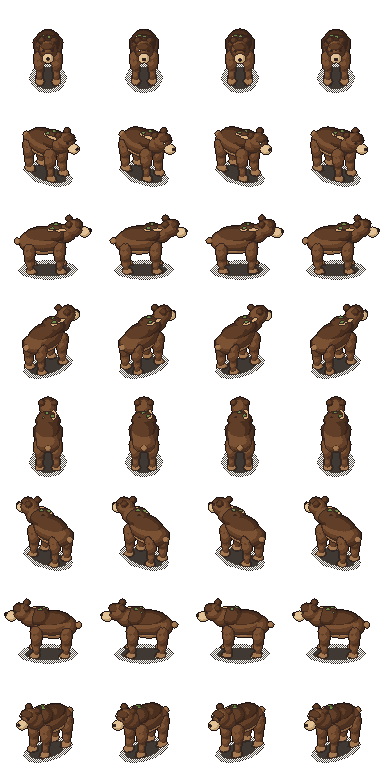
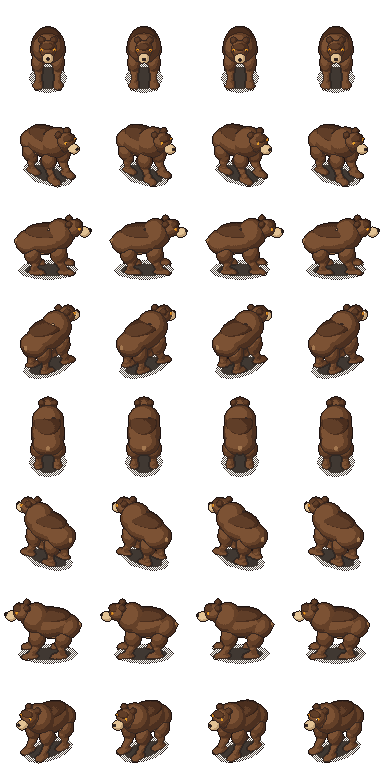
fix: caveBear organico com caminhada em seis poses

diff --git a/art-source/monsters/caveBear/build.py b/art-source/monsters/caveBear/build.py
@@ -47,6 +47,7 @@ MATS = {
     "pelo_escuro": dict(r=[(96, 62, 40), (74, 46, 30), (56, 36, 26)], layer="corpo", w=1.0, dith=0.02, bias=0.0, ao=0.5),
     "pelo": dict(r=[(124, 82, 52), (100, 64, 40), (76, 48, 32)], layer="corpo", w=1.0, dith=0.02, bias=0.0, ao=0.4),
     "pelo_claro": dict(r=[(164, 120, 80), (138, 98, 64)], layer="corpo", w=1.0, dith=0.02, bias=0.0, ao=0.2),
+    "olho_ambar": dict(r=[(226, 155, 42), (190, 112, 25)], layer="olhos", w=2.0, dith=0.0, bias=0.0, ao=0.0),
     "rim": dict(r=[(216, 172, 122)], layer="corpo", w=1.0, dith=0.0, bias=0.0, ao=0.0),
     "focinho": dict(r=[(226, 194, 148), (192, 158, 116)], layer="corpo", w=1.0, dith=0.02, bias=0.0, ao=0.2),
     "musgo": dict(r=[(108, 140, 74), (76, 108, 52)], layer="corpo", w=1.2, dith=0.02, bias=0.0, ao=0.6),
@@ -56,7 +57,7 @@ MATS = {
     "nariz": dict(r=[(38, 30, 28), (18, 14, 14)], layer="olhos", w=2.0, dith=0.0, bias=0.0, ao=0.1),
 }
 CAMADAS = ["sombra_meia", "sombra", "corpo", "olhos"]                     # ordem de baixo para cima
-ESTILO = PP.Estilo(tile=TILE, mats=MATS, camadas=CAMADAS, sem_linha=("sombra", "sombra_meia"),
+ESTILO = PP.Estilo(tile=TILE, mats=MATS, camadas=CAMADAS, sem_linha=("sombra", "sombra_meia", "olho_ambar", "brilho"),
                    origem_y=ORIGEM_Y, pivo=(TILE // 2, ORIGEM_Y))
 
 
@@ -170,10 +171,10 @@ def juntar(*malhas):
 # "perna" (gira em torno do quadril; perna = 0..3, FL, FR, BL, BR)
 PARTES = []
 PERNAS = [
-    dict(H=(-0.19, -0.26, 0.70), fase=0.0, dianteira=True),     # dianteira esquerda (x negativo)
-    dict(H=(0.19, -0.26, 0.70), fase=math.pi, dianteira=True),  # dianteira direita
-    dict(H=(-0.19, 0.42, 0.70), fase=math.pi, dianteira=False), # traseira esquerda
-    dict(H=(0.19, 0.42, 0.70), fase=0.0, dianteira=False),      # traseira direita
+    dict(H=(-0.22, -0.28, 0.72), fase=0.0, dianteira=True),
+    dict(H=(0.22, -0.28, 0.72), fase=math.pi, dianteira=True),
+    dict(H=(-0.22, 0.38, 0.66), fase=math.pi, dianteira=False),
+    dict(H=(0.22, 0.38, 0.66), fase=0.0, dianteira=False),
 ]
 PIVO_PESCOCO = (0.0, -0.30, 0.90)
 
@@ -185,12 +186,16 @@ def add(nome, layer, mat, grp, malha, tipo="corpo", perna=None):
 add("sombra_meia", "sombra_meia", "sombra_meia", 30, elipsoide((0.0, 0.0, 0.001), 0.42, 0.66, 0.001, 1), "fixo")
 add("sombra", "sombra", "sombra", 31, elipsoide((0.0, 0.0, 0.002), 0.30, 0.52, 0.002, 2), "fixo")
 
-# tronco arredondado: massa media, costas escuras por cima, barriga clara por baixo, corcunda e traseiro mais baixo
-add("tronco", "corpo", "pelo", 1, elipsoide((0.0, 0.10, 0.80), 0.30, 0.50, 0.26, 2))
-add("costas", "corpo", "pelo_escuro", 1, elipsoide((0.0, 0.08, 0.92), 0.27, 0.44, 0.16, 2))
-add("barriga", "corpo", "pelo_claro", 8, elipsoide((0.0, 0.12, 0.62), 0.25, 0.42, 0.13, 2))
-add("corcunda", "corpo", "pelo_escuro", 1, elipsoide((0.0, -0.18, 0.98), 0.27, 0.25, 0.19, 2))
-add("traseiro", "corpo", "pelo", 1, elipsoide((0.0, 0.42, 0.74), 0.28, 0.23, 0.21, 2))
+# Tres massas do tronco formam uma única malha por voxel remesh (aplicado antes dos atributos nd/uv/gp).
+TRONCO_ORGANICO = juntar(
+    elipsoide((0.0, 0.04, 0.82), 0.37, 0.55, 0.30, 3),  # peito largo e alto
+    elipsoide((0.0, -0.27, 0.94), 0.35, 0.31, 0.34, 3), # ombros/corcunda
+    elipsoide((0.0, 0.43, 0.73), 0.34, 0.30, 0.25, 3),  # garupa baixa
+)
+add("tronco", "corpo", "pelo", 1, TRONCO_ORGANICO)
+# Faixas tonais largas seguem as massas (não são um tronco de cilindros empilhados).
+add("costas", "corpo", "pelo_escuro", 1, elipsoide((0.0, 0.03, 1.02), 0.30, 0.48, 0.115, 2))
+add("barriga", "corpo", "pelo_claro", 8, elipsoide((0.0, 0.12, 0.62), 0.27, 0.43, 0.12, 2))
 add("cauda", "corpo", "pelo_claro", 1, elipsoide((0.0, 0.70, 0.76), 0.065, 0.065, 0.065, 1))
 add("luz_ombro", "corpo", "rim", 9, elipsoide((-0.12, -0.20, 1.12), 0.07, 0.22, 0.02, 1))
 
@@ -207,25 +212,37 @@ add("orelha0", "corpo", "pelo_escuro", 2, elipsoide((-0.14, -0.48, 1.27), 0.075,
 add("orelha1", "corpo", "pelo_escuro", 2, elipsoide((0.14, -0.48, 1.27), 0.075, 0.07, 0.07, 2), "cabeca")
 add("focinho", "corpo", "focinho", 3, elipsoide((0.0, -0.83, 1.00), 0.12, 0.13, 0.10, 2), "cabeca")
 add("nariz", "olhos", "nariz", 4, elipsoide((0.0, -0.94, 1.04), 0.05, 0.04, 0.035, 1), "cabeca")
-add("olho0", "olhos", "olho", 5, elipsoide((-0.10, -0.74, 1.15), 0.036, 0.034, 0.036, 1), "cabeca")
-add("olho1", "olhos", "olho", 6, elipsoide((0.10, -0.74, 1.15), 0.036, 0.034, 0.036, 1), "cabeca")
-add("brilho0", "olhos", "brilho", 25, elipsoide((-0.11, -0.77, 1.18), 0.012, 0.012, 0.012, 0), "cabeca")
-add("brilho1", "olhos", "brilho", 26, elipsoide((0.09, -0.77, 1.18), 0.012, 0.012, 0.012, 0), "cabeca")
+for lado in (-1, 1):
+    x = lado * 0.145
+    add("olho_ambar_%s" % lado, "olhos", "olho_ambar", 5 + (lado > 0),
+        elipsoide((x, -0.715, 1.155), 0.034, 0.027, 0.034, 1), "cabeca")
+    add("pupila_%s" % lado, "olhos", "olho", 7 + (lado > 0),
+        elipsoide((x, -0.739, 1.157), 0.014, 0.012, 0.018, 1), "cabeca")
+    add("brilho_%s" % lado, "olhos", "brilho", 25 + (lado > 0),
+        elipsoide((x - 0.008, -0.752, 1.171), 0.007, 0.006, 0.007, 0), "cabeca")
 
-# 4 pernas grossas em cima que afinam ate a pata; pata clara; 3 garras claras por pata
+# Pernas em cápsulas com joelho/cotovelo deslocado: volumes arredondados e flexionados.
 for k, pe in enumerate(PERNAS):
     hx, hy, hz = pe["H"]
     grp = 10 + k
-    coxa = juntar(tubo_afinado((hx, hy, hz), (hx, hy, 0.36), 0.14, 0.095),
-                  tubo_afinado((hx, hy, 0.36), (hx, hy - 0.01, 0.10), 0.095, 0.07),
-                  elipsoide((hx, hy, hz), 0.14, 0.14, 0.14, 1),
-                  elipsoide((hx, hy, 0.36), 0.095, 0.095, 0.095, 1))
+    joelho_y = hy + (0.06 if pe["dianteira"] else -0.10)
+    tornozelo_y = hy - 0.07
+    coxa = juntar(
+        elipsoide((hx, hy + (0.035 if pe["dianteira"] else -0.03), 0.54), 0.145 if pe["dianteira"] else 0.17, 0.18, 0.23, 2),
+        tubo_afinado((hx, hy, hz), (hx, joelho_y, 0.42), 0.135, 0.095, 10),
+        elipsoide((hx, joelho_y, 0.40), 0.105, 0.115, 0.12, 2),
+        tubo_afinado((hx, joelho_y, 0.40), (hx, tornozelo_y, 0.14), 0.095, 0.072, 10),
+        elipsoide((hx, tornozelo_y, 0.15), 0.078, 0.10, 0.10, 2),
+    )
     add("perna%d" % k, "corpo", "pelo", grp, coxa, "perna", perna=k)
-    px, py = hx, hy - 0.03
-    add("pata%d" % k, "corpo", "pelo_claro", grp, elipsoide((px, py, 0.075), 0.115, 0.12, 0.075, 2), "perna", perna=k)
-    for j, dx in enumerate((-0.05, 0.0, 0.05)):
-        add("garra%d_%d" % (k, j), "olhos", "garra", 20 + 3 * k + j,
-            elipsoide((px + dx, py - 0.12, 0.035), 0.022, 0.024, 0.022, 0), "perna", perna=k)
+    px, py = hx, tornozelo_y - 0.045
+    # Pata baixa, comprida no eixo frontal (-Y), em pelo marrom contínuo.
+    add("pata%d" % k, "corpo", "pelo", grp, juntar(
+        elipsoide((px, py, 0.073), 0.115, 0.19, 0.070, 2),
+        elipsoide((px, py - 0.105, 0.060), 0.112, 0.095, 0.052, 2)), "perna", perna=k)
+    for j, dx in enumerate((-0.058, -0.019, 0.019, 0.058)):
+        add("garra%d_%d" % (k, j), "olhos", "garra", 20 + j,
+            elipsoide((px + dx, py - 0.18, 0.035), 0.014, 0.031, 0.016, 1), "perna", perna=k)
 
 
 # ------------------------------------------------------------------ poses (locais; base no z = 0)
@@ -257,7 +274,9 @@ def corpo_T(anim, f):
     if anim == "parado":
         return T((0, 0, [0.0, 0.008, 0.012, 0.006][f]))
     if anim == "andar":
-        return T((0, 0, 0.012 * (1 - math.cos(4 * math.pi * f / 6)) / 2))
+        # Alterna carga entre lados; o tronco acompanha a passada com leve balanço e compressão.
+        phase = 2 * math.pi * f / 6
+        return T((0.018 * math.sin(phase), 0, 0.018 + 0.022 * (1 - math.cos(2 * phase)) / 2)) @ Ry_em(0.035 * math.sin(phase), (0, 0.05, 0.78))
     if anim == "atacar":
         return T((0, AVANCO_ATAQUE[f], 0))
     return Matrix.Identity(4)
@@ -275,7 +294,10 @@ def cabeca_rx(anim, f):
 
 def perna_rx(p, anim, f):
     if anim == "andar":
-        return AMP_PASSO * math.sin(2 * math.pi * f / 6 + p["fase"])
+        phase = 2 * math.pi * f / 6 + p["fase"]
+        # O cosseno antecipa/recolhe o pé em relação ao arco de balanço; evita que
+        # contato inicial (0) e apoio oposto (3) caiam na mesma pose amostrada.
+        return AMP_PASSO * math.sin(phase) + 0.08 * math.cos(phase) + 0.06 * math.sin(2 * phase)
     if anim == "atacar" and p["dianteira"]:
         return ANGULO_PATA_ATAQUE[f] if p["H"][0] > 0 else ANGULO_PATA_ATAQUE[f] * 0.6
     return 0.0
@@ -312,6 +334,34 @@ def matrizes(anim, f):
 for ob in list(bpy.data.objects):
     bpy.data.objects.remove(ob, do_unlink=True)
 coll = bpy.context.scene.collection
+
+
+def voxel_union(malha, voxel_size=0.025):
+    """Une os elipsoides do tronco por voxel remesh, aplica a malha e só então retorna polígonos puros."""
+    verts, faces = malha
+    me = bpy.data.meshes.new("tronco_voxel_src")
+    me.from_pydata(verts, [], faces)
+    me.update()
+    ob = bpy.data.objects.new("tronco_voxel_tmp", me)
+    coll.objects.link(ob)
+    bpy.context.view_layer.objects.active = ob
+    ob.select_set(True)
+    mod = ob.modifiers.new("uniao_organica", "REMESH")
+    mod.mode = "VOXEL"
+    mod.voxel_size = voxel_size
+    mod.use_smooth_shade = True
+    bpy.ops.object.modifier_apply(modifier=mod.name)
+    smooth = ob.modifiers.new("suavizacao_leve", "SMOOTH")
+    smooth.factor = 0.45
+    smooth.iterations = 2
+    bpy.ops.object.modifier_apply(modifier=smooth.name)
+    result = ([(v.co.x, v.co.y, v.co.z) for v in ob.data.vertices],
+              [tuple(poly.vertices) for poly in ob.data.polygons])
+    bpy.data.objects.remove(ob, do_unlink=True)
+    bpy.data.meshes.remove(me)
+    return result
+
+
 BMAT = {}
 for nome in ESTILO.nomes:
     m = bpy.data.materials.new(nome)
@@ -322,6 +372,8 @@ for nome in ESTILO.nomes:
 PARTS = []
 for p in PARTES:
     (verts, faces) = p["malha"]
+    if p["nome"] == "tronco":
+        verts, faces = voxel_union((verts, faces))
     me = bpy.data.meshes.new(p["nome"])
     me.from_pydata(verts, [], faces)
     me.update()
@@ -421,7 +473,7 @@ if os.environ.get("ESCREVER_SPEC", "1") == "1":
                       **({"golpe_quadro": GOLPE_QUADRO[a]} if a in GOLPE_QUADRO else {})} for a in ANIMS},
         "paleta": sorted([list(c) for c in ESTILO.paleta]),
         "paleta_max": PP.PALETA_MAX,
-        "nota": "urso marrom-escuro de 4 patas, focinho creme, garras, musgo nos ombros; 8 direcoes renderizadas "
+        "nota": "urso robusto com tronco voxel-remesh, olho ambar projetado sem emissao, focinho creme, garras e musgo; 8 direcoes renderizadas "
                 "(sem espelho); alfa binario; sombra com meia-tinta (xadrez) e nucleo solido.",
     }
     with open(os.path.join(HERE, "spec.json"), "w", encoding="utf-8") as fh:
